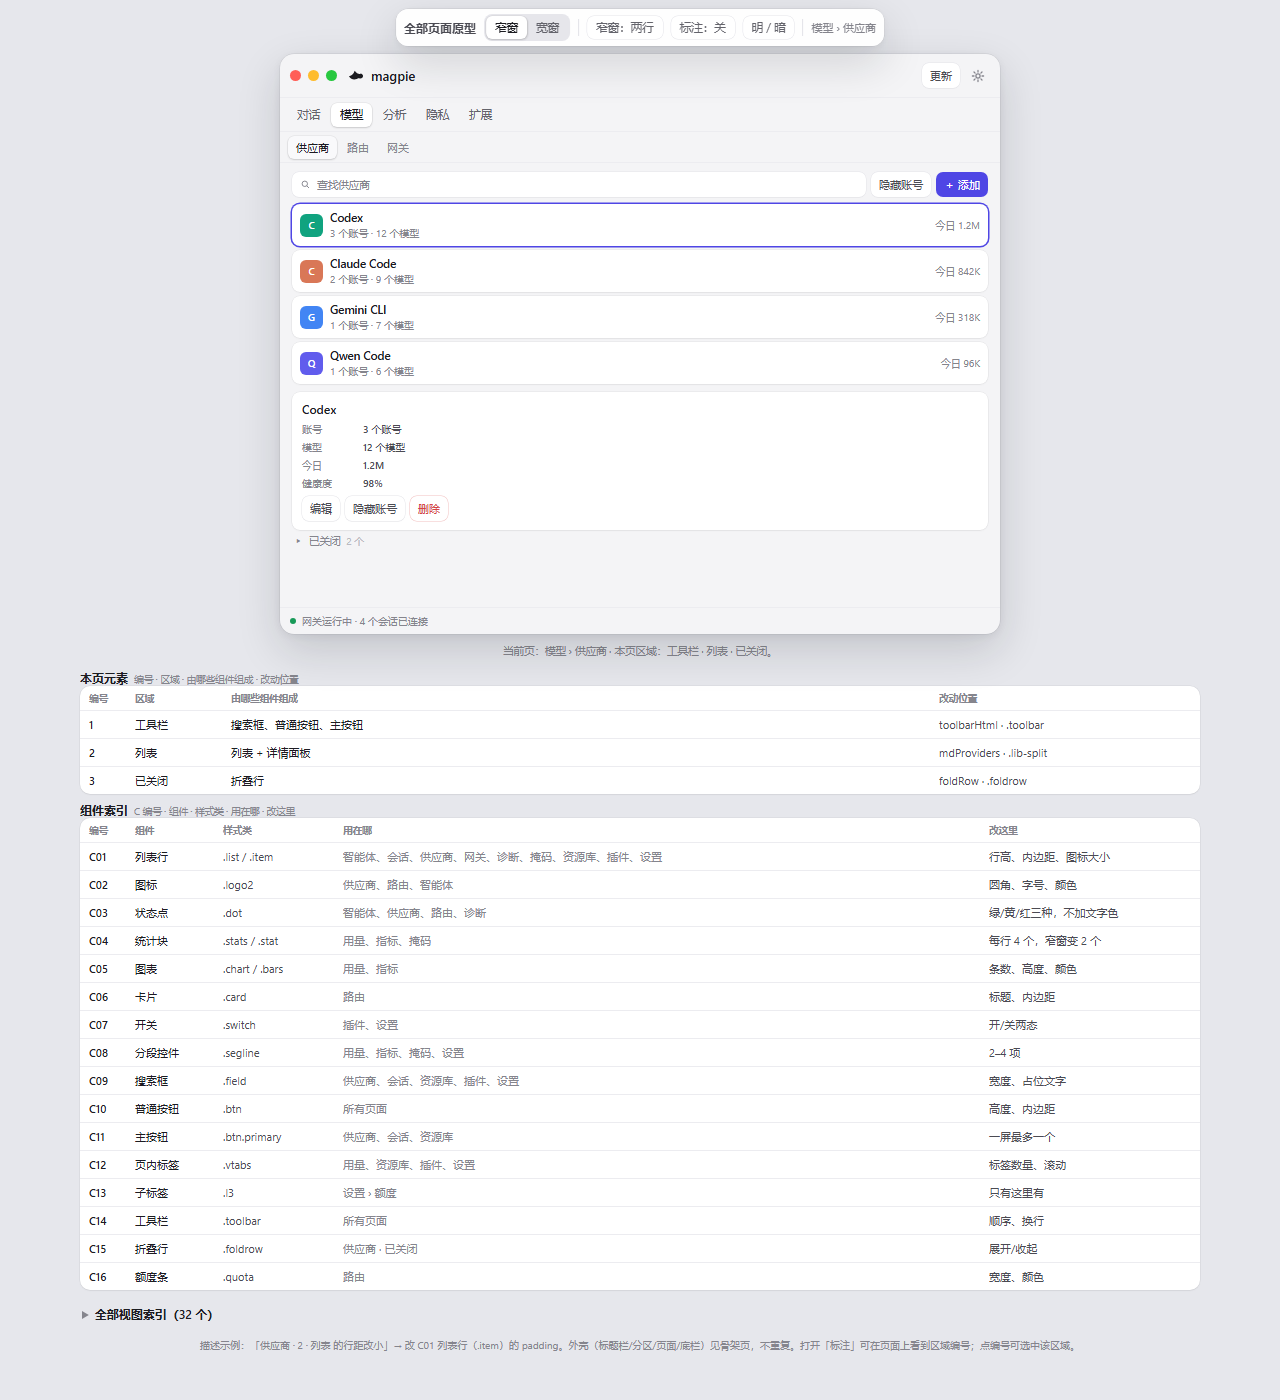
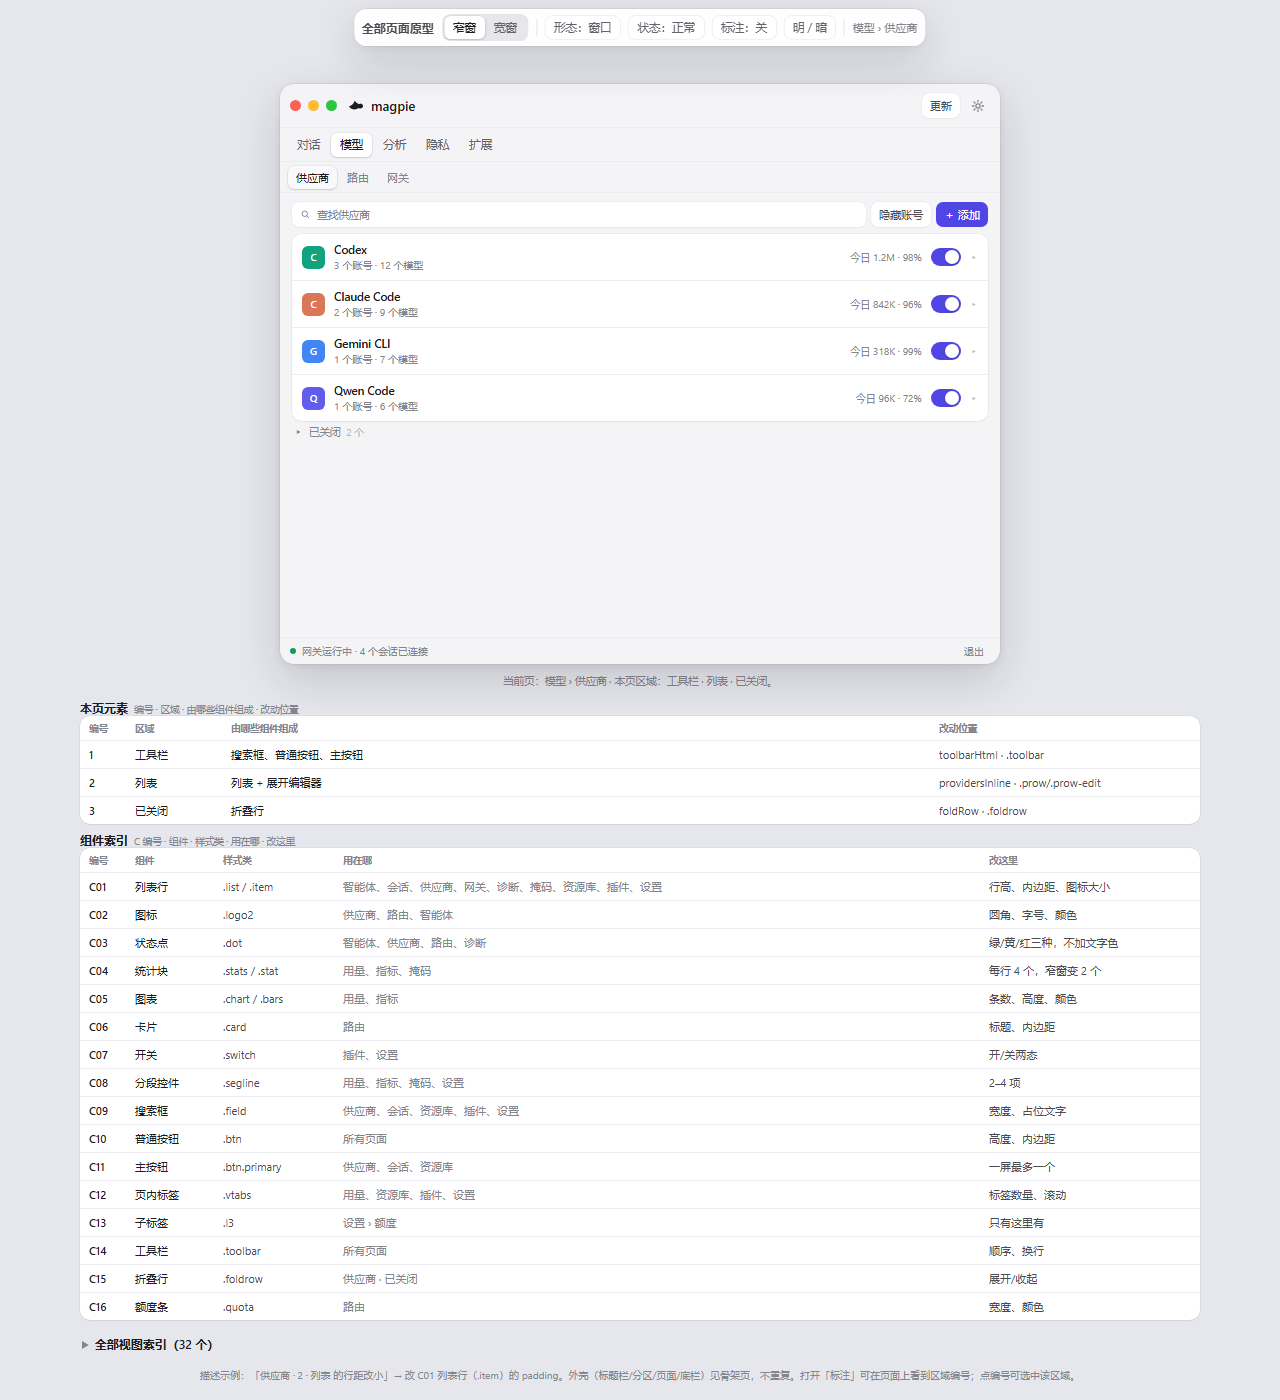
prototypes: lock the narrow navigation to its two rows

Changed region(s): [[0.0625, 0.43, 0.9375, 1.0], [0.2188, 0.0, 0.75, 0.3993], [0.6875, 0.1229, 0.7812, 0.3071]]

diff --git a/workspace/附属产物/nav-refactor/all-pages.html b/workspace/附属产物/nav-refactor/all-pages.html
@@ -294,7 +294,6 @@ button:focus-visible,.lib-item:focus-visible{outline:2px solid var(--accent);out
   </div>
   <span class="sep"></span>
   <button class="tbtn" id="formBtn">形态：窗口</button>
-  <button class="tbtn" id="navBtn">窄窗：两行</button>
   <button class="tbtn" id="stateBtn">状态：正常</button>
   <button class="tbtn" id="specBtn">标注：关</button>
   <button class="tbtn" id="themeBtn">明 / 暗</button>
@@ -467,11 +466,10 @@ const COMPONENTS = [
 const state = {
   frame:'narrow', section:'model', page:'providers', theme:'light',
   tabs:{usage:'概览',library:'指令',plugins:'内置',settings:'额度'}, l3:'全部',
-  spec:false, sel:null, libSel:0, mdSel:0, compact:false, sheet:false, ov:null, menuAt:null, sw:{}, listState:'normal', editDirty:false, form:'window', panelTab:'额度', providerOpen:null, toast:null,
+  spec:false, sel:null, libSel:0, mdSel:0, sheet:false, ov:null, menuAt:null, sw:{}, listState:'normal', editDirty:false, form:'window', panelTab:'额度', providerOpen:null, toast:null,
 };
 const qs = new URLSearchParams(location.search);
 if(qs.get('f')==='wide' || qs.get('f')==='narrow') state.frame = qs.get('f');
-if(qs.get('nav')==='one') state.compact = true;
 if(['empty','loading','error'].includes(qs.get('state'))) state.listState = qs.get('state');
 if(['panel','phone'].includes(qs.get('form'))) state.form = qs.get('form');
 if(qs.get('open')) state.providerOpen = qs.get('open');
@@ -1138,16 +1136,19 @@ function mainView(){
   const sheet = state.sheet && state.page==='providers' ? addSheetInline() : '';
   return `<main class="view">${regions.map((r,i)=>reg(i+1, r[0], r[1])).join('')}${sheet}</main>`;
 }
-function compactNav(){
-  let out = '';
-  SECTIONS.forEach((sec, si)=>{
-    if(si) out += '<span class="tsep"></span>';
-    out += `<span class="gchip${state.page!=='settings'&&state.section===sec.id?' on':''}">${sec.name}</span>`;
-    out += sec.pages.map(id=>`<button class="tab${state.page===id?' on':''}" data-page="${id}">${PAGES[id].name}</button>`).join('');
-  });
-  out += '<span class="tsep"></span>';
-  out += `<button class="tab${state.page==='settings'?' on':''}" data-page="settings">设置</button>`;
-  return `<nav class="tabstrip">${out}</nav>`;
+function toastHtml(){ return state.toast ? `<div class="toast">${state.toast}</div>` : ''; }
+function showToast(msg){
+  state.toast = msg;
+  renderStage();
+  clearTimeout(showToast.t);
+  showToast.t = setTimeout(()=>{ if(state.toast===msg){ state.toast = null; renderStage(); } }, 1600);
+}
+function closeOv(){
+  if(state.ov && state.ov.kind==='providerEdit' && state.editDirty){
+    state.ov = {kind:'confirm', title:'放弃未保存的修改？', body:'离开后这次编辑不会保留。', ok:'放弃'};
+    renderStage(); return;
+  }
+  state.ov = null; state.editDirty = false; renderStage();
 }
 function modalHtml(title, body, actions){
   return `<div class="ov"><div class="ov-sheet">
@@ -1186,19 +1187,18 @@ function overlayHtml(){
   if(o.kind==='request') return modalHtml(o.title || '请求详情',
     `<div class="det-row"><span>模型</span><b>codex/gpt-5.6-sol</b></div><div class="det-row"><span>耗时</span><b>1.2s</b></div><div class="det-row"><span>令牌</span><b>2.4K</b></div><div class="det-row"><span>状态</span><b>成功</b></div>`,
     '<button class="btn" data-ovclose>关闭</button><button class="btn">在路由页打开</button>');
+  if(o.kind==='ctxtext') return modalHtml(o.title || '上下文文本',
+    `<pre class="preview">你是 magpie 的助手……\n（最近 10 次请求，已掩码）</pre>`,
+    '<button class="btn" data-ovclose>关闭</button><button class="btn">复制</button>');
+  if(o.kind==='updateProgress') return modalHtml(o.title || '正在下载',
+    `<div class="progress"><i style="width:64%"></i></div><p class="hint">下载完成后重启；正在运行的请求会先完成。</p>`,
+    '<button class="btn" data-ovclose>后台</button><button class="btn primary" data-ovclose>完成即重启</button>');
   if(o.kind==='update') return modalHtml(o.title || '发现新版本',
     `<p class="hint">更新会重启 magpie，正在运行的请求会先完成。</p>`,
     '<button class="btn" data-ovclose>稍后</button><button class="btn primary" data-act="updateProgress">更新</button>');
   if(o.kind==='providerEdit') return modalHtml(o.title || '编辑供应商',
     `<div class="formrow"><label>名称</label><input class="ov-input" value="Codex"></div><div class="formrow"><label>账号</label><input class="ov-input" value="3 个账号"></div><div class="formrow"><label>模型</label><input class="ov-input" value="12 个模型"></div>`,
     '<button class="btn" data-ovclose>取消</button><button class="btn primary" data-ovsave>保存</button>');
-  if(o.kind==='ctxtext') return modalHtml(o.title || '上下文文本',
-    `<pre class="preview">你是 magpie 的助手……
-（最近 10 次请求，已掩码）</pre>`,
-    '<button class="btn" data-ovclose>关闭</button><button class="btn">复制</button>');
-  if(o.kind==='updateProgress') return modalHtml(o.title || '正在下载',
-    `<div class="progress"><i style="width:64%"></i></div><p class="hint">下载完成后重启；正在运行的请求会先完成。</p>`,
-    '<button class="btn" data-ovclose>后台</button><button class="btn primary" data-ovclose>完成即重启</button>');
   if(o.kind==='import') return modalHtml(o.title || '导入配置',
     `<div class="list"><div class="item"><div class="who"><div class="nm">Codex</div><div class="sub">~/.codex/config.toml</div></div><span class="switch on"></span></div><div class="item"><div class="who"><div class="nm">Claude Code</div><div class="sub">~/.claude/settings.json</div></div><span class="switch on"></span></div></div>`,
     '<button class="btn" data-ovclose>取消</button><button class="btn primary" data-ovclose>导入选中</button>');
@@ -1209,20 +1209,6 @@ function overlayHtml(){
     `<p class="hint">还有 4 个会话连着网关，退出会中断它们。</p>`,
     '<button class="btn" data-ovclose>取消</button><button class="btn danger" data-ovclose>退出</button>');
   return '';
-}
-function toastHtml(){ return state.toast ? `<div class="toast">${state.toast}</div>` : ''; }
-function showToast(msg){
-  state.toast = msg;
-  renderStage();
-  clearTimeout(showToast.t);
-  showToast.t = setTimeout(()=>{ if(state.toast===msg){ state.toast = null; renderStage(); } }, 1600);
-}
-function closeOv(){
-  if(state.ov && state.ov.kind==='providerEdit' && state.editDirty){
-    state.ov = {kind:'confirm', title:'放弃未保存的修改？', body:'离开后这次编辑不会保留。', ok:'放弃'};
-    renderStage(); return;
-  }
-  state.ov = null; state.editDirty = false; renderStage();
 }
 function panelBody(){
   const tab = state.panelTab || '额度';
@@ -1254,17 +1240,15 @@ function renderStage(){
   else if(state.form==='phone') stage.innerHTML = phoneShell();
   else stage.innerHTML = state.frame==='wide'
     ? `<div class="win wide">${topbar(false)}<div class="main">${navSide()}${mainView()}</div>${footerbar()}${overlayHtml()}${toastHtml()}</div>`
-    : `<div class="win narrow">${topbar(true)}${state.compact ? compactNav() : secStrip()+pageStrip()}${mainView()}${footerbar()}${overlayHtml()}${toastHtml()}</div>`;
+    : `<div class="win narrow">${topbar(true)}${secStrip()}${pageStrip()}${mainView()}${footerbar()}${overlayHtml()}${toastHtml()}</div>`;
   const sec = SECTIONS.find(s=>s.id===state.section);
   const where = state.page==='settings' ? '设置' : ((sec ? sec.name + ' › ' : '') + PAGES[state.page].name);
   document.getElementById('where').textContent = where;
   document.querySelectorAll('#frameSeg button[data-f]').forEach(b=>b.classList.toggle('on', b.dataset.f===state.frame));
   document.getElementById('specBtn').textContent = '标注：' + (state.spec ? '开' : '关');
-  document.getElementById('navBtn').textContent = '窄窗：' + (state.compact ? '一行' : '两行');
   document.getElementById('stateBtn').textContent = '状态：' + ({normal:'正常',empty:'空',loading:'加载',error:'错误'}[state.listState]);
   document.getElementById('formBtn').textContent = '形态：' + ({window:'窗口',panel:'托盘',phone:'手机'}[state.form]);
   if(state.sheet){ const sh=document.querySelector('.sheet-inline'); if(sh) sh.scrollIntoView({block:'nearest'}); }
-  if(state.frame==='narrow' && state.compact){ const nav=document.querySelector('.win.narrow .tabstrip'); const on=nav && nav.querySelector('.tab.on'); if(on) nav.scrollLeft = Math.max(0, on.offsetLeft - 60); }
   const regions = regionsFor(state.page, PAGES[state.page]).map(r=>r[0]);
   const selTxt = state.sel ? ('已选：' + where + ' · 区域 ' + state.sel.n + ' · ' + state.sel.name) : ('当前页：' + where);
   document.getElementById('caption').textContent = selTxt + ' · 本页区域：' + regions.join(' · ') + '。';
@@ -1412,7 +1396,6 @@ document.getElementById('frameSeg').addEventListener('click', e=>{
   if(!b) return;
   state.frame = b.dataset.f; renderStage();
 });
-document.getElementById('navBtn').addEventListener('click', ()=>{ state.compact = !state.compact; renderStage(); });
 document.getElementById('formBtn').addEventListener('click', ()=>{ const forms=['window','panel','phone']; state.form = forms[(forms.indexOf(state.form)+1)%forms.length]; renderStage(); });
 document.getElementById('stateBtn').addEventListener('click', ()=>{ const states=['normal','empty','loading','error']; state.listState = states[(states.indexOf(state.listState)+1)%states.length]; renderStage(); });
 document.getElementById('specBtn').addEventListener('click', ()=>{

diff --git a/workspace/附属产物/nav-refactor/COMPARE.md b/workspace/附属产物/nav-refactor/COMPARE.md
@@ -10,7 +10,7 @@
 |---|---|---|---|
 | 标题栏 | 46px，左红绿灯/品牌，右更新与设置 | 44px，元素一致 | ◐ 更紧凑 2px |
 | 宽窗侧栏 | 212px，四组（Work/Models/Insights/Extend），当前页的子标签缩进 | 196px，五分区（对话/模型/分析/隐私/扩展），主从详情 | ◐ 分区与宽度按定稿调整 |
-| 窄窗一级/二级 | <1024 回到顶栏一行页面标签 | 两行：分区条 + 页面条；另有一行备选 | ✅ 两行已按你的选择设为默认 |
+| 窄窗一级/二级 | <1024 回到顶栏一行页面标签 | 两行：分区条 + 页面条 | ✅ 两行已锁定 |
 | 智能体 | 列表；点行展开设置 | 左列表 + 右详情（状态/账号/模型/命令） | ◐ 详情更直接 |
 | 会话 | 文件夹列表；重命名/移动走 modal | 左列表 + 右详情；表单仍静态 | ◐ 表单待补 |
 | 资源库 | 6 页签；发现 + 资源库文件夹；MCP 的 Agents/其它应用；RTK 30/90/全部 | 7 页签（新增插件库）；发现 + 文件夹；MCP 双入口；RTK 范围；全部主从 | ✅ 现行细节已补，插件库是新增 |
@@ -76,6 +76,6 @@
 
 ## 下一步（按优先级）
 
-1. 供应商“原地展开”与“左列表右详情”是两种产品选择，需要你定。
-2. 窄窗一行是备选，默认仍是两行。
-3. 页内标签/分区条的左右方向键（可选）。
+1. 供应商已按现行版点行原地展开。
+2. 窄窗两行已锁定。
+3. 原型可定稿；后续按真实实现再对照。

diff --git a/workspace/附属产物/nav-refactor/README.md b/workspace/附属产物/nav-refactor/README.md
@@ -62,7 +62,7 @@
 
 列表类页面统一用「左列表 + 右详情」：智能体、会话、诊断、掩码、插件、资源库 7 个页签、用量的请求/会话/榜单。窄窗自动上下排，选中一行就能看到详情和操作，不用再点进弹窗。供应商按现行版“点行原地展开”。
 
-窄窗顶部可切「两行 / 一行」：两行是分区条 + 页面条；一行把分区做小标签、和页面标签合并，省约 31px。一行时当前分区高亮，打开靠右的页面会自动滚到可见。
+窄窗固定两行：分区条 + 页面条（“一行”备选已按定稿移除）。
 
 形态可切「窗口 / 托盘 / 手机」：托盘有 4 个页签，手机底部 5 个分区、供应商/设置内页可看。
 
